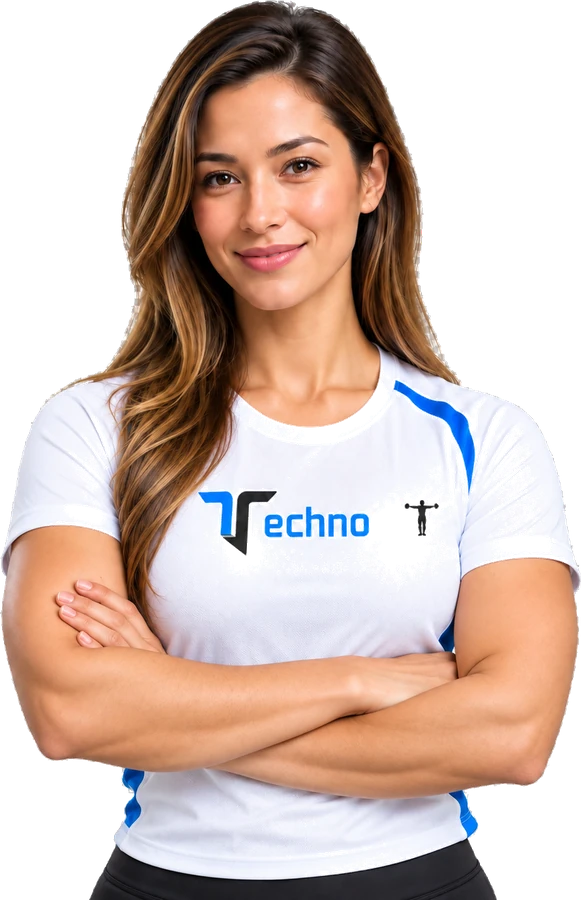
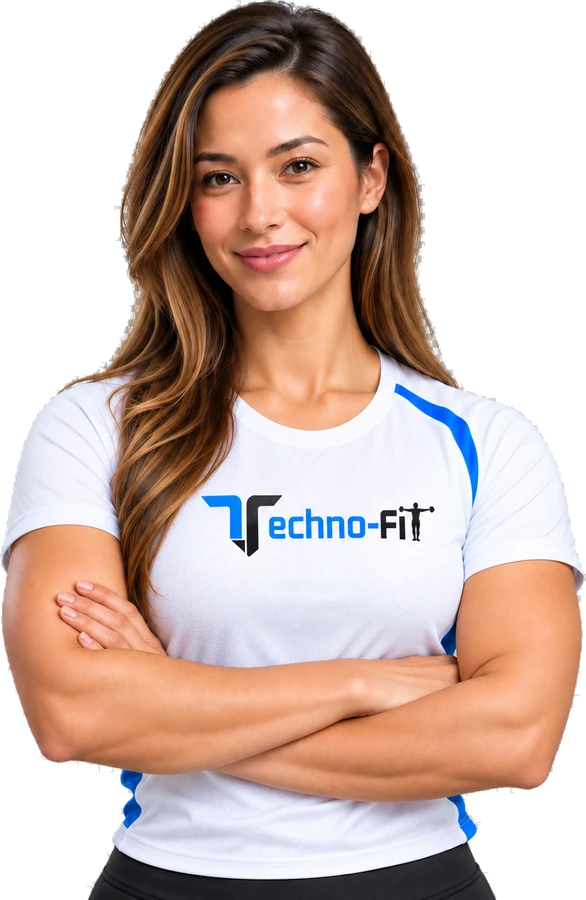
ui(about): full-body coach cutouts in AI Trainers, clean Jazz, purple Bhakti title
- Replace circular ai-jazz/ai-wasim avatars with the arms-crossed
  coach cutouts (full-body portrait cards, matching the home section)
- Swap in the clean-shirt Jazz image (no grunge print)
- Bhakti "Strategic & Creative Partner" title -> violet/purple
- Remove unused ai-jazz.webp / ai-wasim.webp

Claude-Session: https://claude.ai/code/session_0121USr4SSrwcUJa29x5xUU6

diff --git a/app/about/AboutClient.js b/app/about/AboutClient.js
@@ -92,14 +92,13 @@ export default function About() {
   {/* JAZZ */}
   <div className="bg-white/5 backdrop-blur-lg border border-white/10 rounded-2xl p-8 group hover:scale-105 transition duration-500">
 
-    <div className="relative w-36 h-36 mx-auto mb-6">
+    <div className="relative h-64 mb-6 flex items-end justify-center">
+      <div className="absolute bottom-0 w-40 h-24 bg-blue-500/20 blur-2xl rounded-full"></div>
       <img
-        src="/images/ai-jazz.webp"
-        className="w-full h-full object-cover rounded-full"
+        src="/images/coach-jazz.webp"
+        alt="Jazz, AI fitness coach"
+        className="relative h-full w-auto object-contain drop-shadow-[0_16px_30px_rgba(0,0,0,0.5)] group-hover:scale-105 transition duration-500"
       />
-
-      {/* Glow */}
-      <div className="absolute inset-0 rounded-full bg-blue-500/20 blur-xl opacity-0 group-hover:opacity-100 transition duration-500"></div>
     </div>
 
     <h3 className="text-2xl font-semibold">Jazz</h3>
@@ -115,13 +114,13 @@ export default function About() {
   {/* WASIM AI */}
   <div className="bg-white/5 backdrop-blur-lg border border-white/10 rounded-2xl p-8 group hover:scale-105 transition duration-500">
 
-    <div className="relative w-36 h-36 mx-auto mb-6">
+    <div className="relative h-64 mb-6 flex items-end justify-center">
+      <div className="absolute bottom-0 w-40 h-24 bg-violet-500/20 blur-2xl rounded-full"></div>
       <img
-        src="/images/ai-wasim.webp"
-        className="w-full h-full object-cover rounded-full"
+        src="/images/coach-wasim.webp"
+        alt="Wasim, AI performance coach"
+        className="relative h-full w-auto object-contain drop-shadow-[0_16px_30px_rgba(0,0,0,0.5)] group-hover:scale-105 transition duration-500"
       />
-
-      <div className="absolute inset-0 rounded-full bg-blue-500/20 blur-xl opacity-0 group-hover:opacity-100 transition duration-500"></div>
     </div>
 
     <h3 className="text-2xl font-semibold">Wasim (AI Avatar)</h3>
@@ -370,7 +369,7 @@ export default function About() {
     <div>
 
       <h3 className="text-3xl font-bold">Bhakti Dabholkar</h3>
-      <p className="text-blue-400 mt-1">Strategic & Creative Partner</p>
+      <p className="text-violet-400 mt-1">Strategic & Creative Partner</p>
 
       <p className="mt-6 p-text leading-relaxed">
         Bhakti has played a pivotal role in shaping the identity of TechnoFit — bringing
